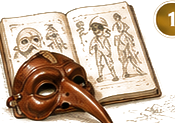
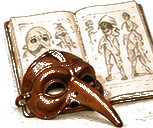
sequence steps: stacked, and the drawings re-cut
THE PROPORTIONS WERE THE REAL FAULT. Each step split a 275px card into a
92px picture and 139px of text, so "Learn the / forms" wrapped onto two
lines and the body ran three words wide while the drawing sat stranded
beside it. The step stacks now — words, then drawing — which is the same
shape the lesson-2 timeline uses, so a stage reads the same way wherever
it appears. Measured at 1680: picture and text both 249 wide, up from 92
and 139.

THE BADGES WERE BAKED INTO THE PICTURES. Enlarging them showed why they
had looked wrong: the owner's supplied crops each caught the gold
numbered badge that sits beside that step in his rendering, and keying
removes parchment while KEEPING ink, so the badge came through. At 92px
it read as a smudge; at 249px it was a second number sitting on the
drawing, beside the real one. All three are re-cut from the rendering
stopping short of the badge, and anything gold that survived is cleared
by hue — the badges and the chevrons are a saturated ochre that nothing
in these pen drawings uses. Same class of fault as the text baked into
the lesson-2 crops.

A COMMON PICTURE BOX, because the three do not share an aspect: the book
is 153x128 and the figure 85x143, so filling the card's width made the
portrait one 418px tall against neighbours at 208 and 250 and it swamped
the row. A fixed 170px height with `contain` levels them and caps the
upscale near 1.3x. Measured after: all three 249x170, all three steps
351px tall.
[…]

diff --git a/css/style.css b/css/style.css
@@ -3408,10 +3408,15 @@ button.mask-card:hover, button.mask-card:focus-visible { border-color: var(--gre
 .sx-steps.is-rich { background: var(--panel); border: 1px solid var(--line);
   border-radius: 14px; padding: 16px 10px; gap: 0;
   grid-template-columns: repeat(auto-fit, minmax(210px, 1fr)); }
+/* ONE COLUMN: the words, then the drawing beneath them. Beside the text
+   the picture took 92px out of a 275px card and left 139 for the
+   sentence, which wrapped the title onto two lines and ran the body
+   three words wide. Stacked, both take the whole card. */
 .sx-steps.is-rich .sx-step { background: none; border: 0; border-radius: 0;
-  display: grid; gap: 12px; align-items: center; position: relative;
-  grid-template-columns: 92px minmax(0, 1fr); padding: 6px 22px 6px 10px; }
+  display: flex; flex-direction: column; gap: 10px; position: relative;
+  padding: 6px 16px 6px 10px; }
 .sx-steps.is-rich .sx-step::before { content: none; }
+.sx-steps.is-rich .sx-step-body { flex: 0 0 auto; }
 /* The chevron rides the gap between one step and the next. */
 .sx-steps.is-rich .sx-step + .sx-step::after { content: '\203A';
   position: absolute; left: -10px; top: 50%; transform: translateY(-50%);
@@ -3419,7 +3424,21 @@ button.mask-card:hover, button.mask-card:focus-visible { border-color: var(--gre
 @media (max-width: 700px) {
   .sx-steps.is-rich .sx-step + .sx-step::after { content: none; }
 }
-.sx-steps.is-rich .lxc-fig { max-width: 92px; align-self: center; }
+/* The drawing takes the card's width, with the same 260px brake the
+   tiles use: these are crops at roughly the size they appear in the
+   owner's rendering, so past about 1.7x they go soft. `margin-top:auto`
+   settles it at the foot so a row of steps lines its pictures up even
+   when their sentences differ in length. */
+/* A COMMON PICTURE BOX, because the three do not share an aspect: the
+   book is 153x128 and the figure 85x143, so filling the card's width
+   made the portrait one 418px tall beside neighbours at 208 and 250 and
+   it swamped the row. A fixed height with `contain` levels them and
+   caps the upscale at about 1.3x, which these crops take. The box sits
+   at the foot so the pictures line up across steps whose sentences run
+   to different lengths. */
+.sx-steps.is-rich .lxc-fig { width: 100%; max-width: 260px; height: 170px;
+  object-fit: contain; object-position: center bottom;
+  margin: auto auto 0; align-self: center; }
 .sx-step-h { display: flex; align-items: center; gap: 9px; }
 .sx-step-n { flex: 0 0 auto; display: grid; place-items: center;
   width: 23px; height: 23px; border-radius: 50%; background: var(--gold);

diff --git a/js/main.js b/js/main.js
@@ -4553,14 +4553,21 @@ function stepCardsHtml(steps) {
     const text = rich ? o.text : titled ? leads[i].rest : s;
     // A rich step numbers itself inline beside its title, because the
     // drawing occupies the corner the plain card's number sits in.
+    //
+    // THE DRAWING COMES AFTER THE WORDS, and the card stacks them. Set
+    // beside the text it took a 92px column out of a 275px card and left
+    // 139px for the sentence, which wrapped "Learn the / forms" and put
+    // three words on a line underneath. Stacked, both get the card's
+    // full width — and it is the same shape the lesson-2 timeline uses,
+    // so a stage reads the same way wherever it appears.
     return `<li class="sx-step">
-      ${rich && o.fig ? lessonOrnamentHtml(o.fig) : ''}
       <div class="sx-step-body">
         ${head ? `<p class="sx-step-h">
           ${rich ? `<span class="sx-step-n" aria-hidden="true">${i + 1}</span>` : ''}
           <span>${esc(head)}</span></p>` : ''}
         <p class="sx-step-p">${esc(text)}</p>
       </div>
+      ${rich && o.fig ? lessonOrnamentHtml(o.fig) : ''}
     </li>`;
   }).join('')}</ol>`;
 }

diff --git a/js/data/character/art.js b/js/data/character/art.js
@@ -296,11 +296,11 @@ Object.assign(CHARACTER_FIGURES, {
   'cm-l01-bridge': l01('l01-bridge.png',
     'A pen drawing of a masked player in a diamond-patterned costume, mid-step with one arm thrown wide.', 145, 160),
   'cm-l01-learn': l01('l01-learn.png',
-    'A pen drawing of an open book of character plates with a long-nosed leather mask resting on it.', 175, 130),
+    'A pen drawing of an open book of character plates with a long-nosed leather mask resting on it.', 153, 128),
   'cm-l01-body': l01('l01-body.png',
-    'A pen drawing of a masked figure in a wide stance, weight forward.', 130, 130),
+    'A pen drawing of a masked figure in a wide stance, weight forward.', 85, 143),
   'cm-l01-build': l01('l01-build.png',
-    'A pen drawing of a quill standing in an inkwell beside loose pages of notes.', 190, 130),
+    'A pen drawing of a quill standing in an inkwell beside loose pages of notes.', 139, 140),
   'cm-l01-reflect': l01('l01-reflect.png',
     'A pen drawing of a long-beaked leather mask lying on its side.', 140, 105),
   'cm-l01-town': l01('l01-town.png', '', 440, 150),

diff --git a/sw.js b/sw.js
@@ -110,7 +110,7 @@
  * blank-screen trap above. 'no-cache' is a conditional request: an
  * unchanged file costs a 304, not a download.
  */
-const VERSION = 'sc-v80';                     // 2026-11-02: the tile drawings fill their cards instead of floating small in them — css only, staleWhileRevalidate, and he is looking at it
+const VERSION = 'sc-v81';                     // 2026-11-02: the course-sequence steps stack and their drawings are re-cut clear of the badges baked into them — three images REPLACED at existing paths, which cacheFirst never re-asks for
 const SHELL = `${VERSION}-shell`;
 const MEDIA = `${VERSION}-media`;
 const PRECACHE = ['./', 'index.html', 'css/style.css', 'manifest.json',

diff --git a/CLAUDE.md b/CLAUDE.md
@@ -399,7 +399,7 @@ every learner. Ship its js/data/speech/reviews.js entry in the same commit.
 - RHETORIC_LIVE            false  js/main.js:279
 - RHETORIC_WORKSHEET_LIVE  false  js/views/context.js:244
 - ROLE_LIVE                false  js/data/character/character-course.js:65
-- SCENE_STUDY_LIVE         false  js/main.js:10573
+- SCENE_STUDY_LIVE         false  js/main.js:10580
 - SHAKESPEARE_LIVE         true   js/views/context.js:218
 - SPEECH_LIVE              false  js/views/context.js:164
 
@@ -414,7 +414,7 @@ every learner. Ship its js/data/speech/reviews.js entry in the same commit.
 
 ### Size
 
-- js/main.js                13781 lines
+- js/main.js                13788 lines
 - js/views/                 8 modules: action-piece.js, admin.js, context.js, dialect-action.js, ipa-tools.js, lexicon-mark.js, reference.js, script-analysis.js
 - regression check() sites  842
 
